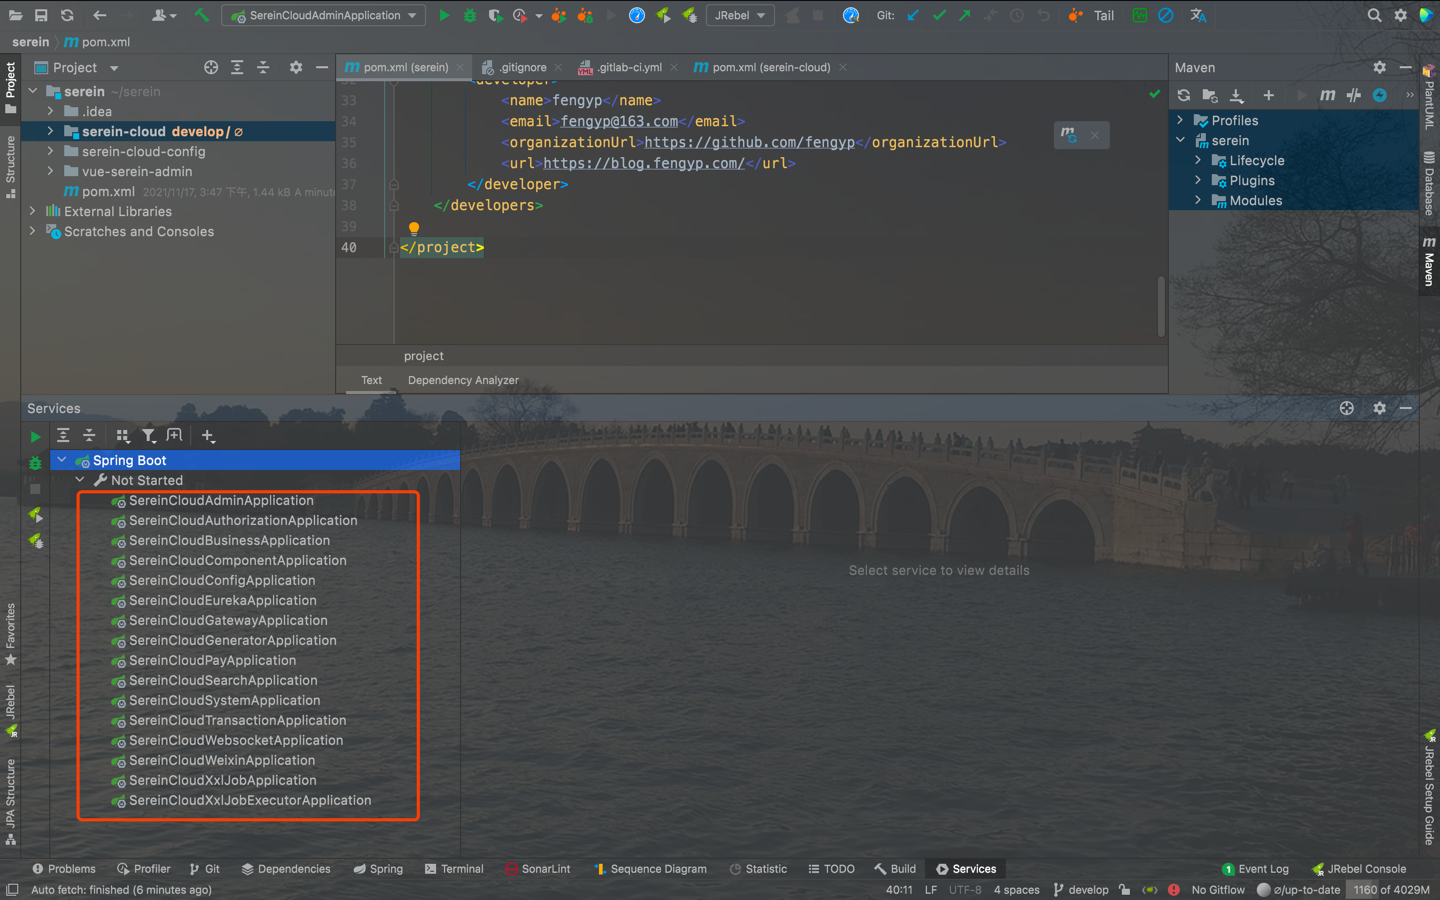
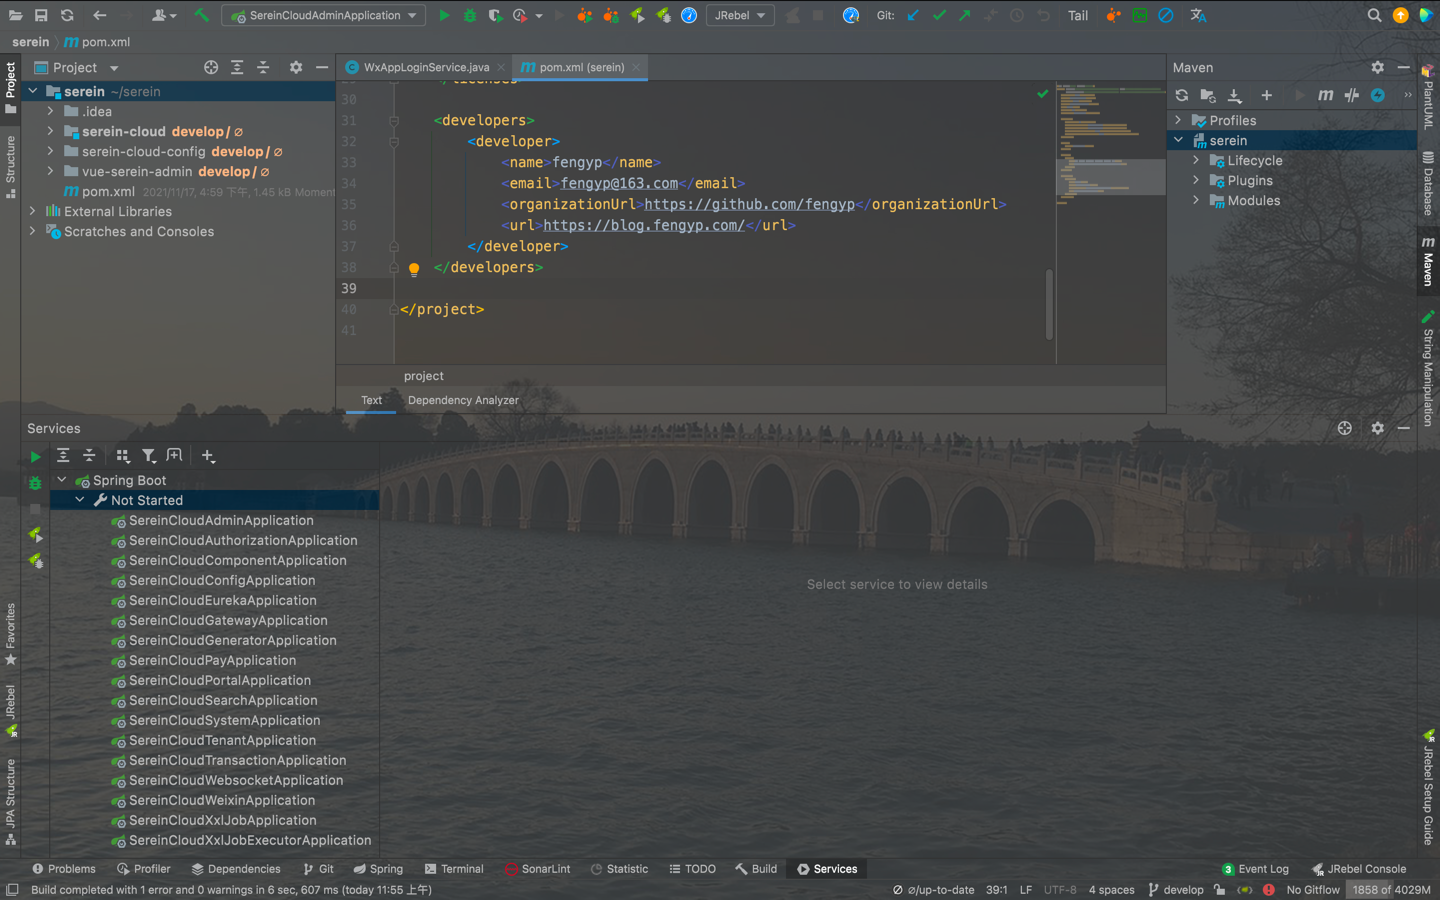
docs: 文档改动

diff --git a/back/advanced.md b/back/advanced.md
@@ -1,12 +1,24 @@
 # 进阶
 
-::: info 简介
-VitePress provides a homepage layout. To use it, specify `home: true` plus some other metadata in your root `index.md`'s [YAML frontmatter](/front/frontmatter). This is an example of how it works:
+::: info 简介 构建分布式系统不应该是复杂的，SpringCloud对常见的分布式系统模式提供了简单易用的编程模型，帮助开发者构建弹性、可靠、协调的应用程序；
+SpringCloud是在SpringBoot的基础上构建的，使开发者可以轻松入门并快速提高工作效率。
 :::
+
+## Tenant 租户模式
+
+- 多租户技术，是一种架构模式，是实现如何在多用户环境下共用相同的系统或程序组件，并且达到各用户间数据的“独立”的技术；
+
+```yaml
+serein:
+  login:
+    tenant: true
+```
 
 ## Swagger接口文档
 
 - SwaggerConfiguration 类配置
+- 本文主要讲解serein cloud是如何通过整合Swagger-UI来实现一份相当完善的在线API文档的。
+- Swagger-UI是HTML, Javascript, CSS的一个集合，可以动态地根据注解生成在线API文档。
 
 ```java
 /**
@@ -58,7 +70,6 @@ public class SwaggerConfiguration {
 
 }
 ```
-
 
 ## Oauth2 授权认证
 
@@ -210,4 +221,148 @@ serein:
     bucket-name: serein-cloud #默认的存储桶名称
 ---
 
+```
+
+## Redis 缓存配置
+
+- @EnableCaching注解是spring framework中的注解驱动的缓存管理功能。自spring版本3.1起加入了该注解。如果你使用了这个注解， 那么你就不需要在XML文件中配置cache manager了。
+- 当你在配置类(@Configuration)上使用@EnableCaching注解时，会触发一个post processor，这会扫描每一个spring bean，
+- 查看是否已经存在注解对应的缓存。如果找到了，就会自动创建一个代理拦截方法调用，使用缓存的bean执行处理。
+
+```java
+/**
+ * 设置缓存时间
+ */
+@Configuration
+@EnableCaching
+@ConditionalOnClass(RedisOperations.class)
+@EnableConfigurationProperties(RedisProperties.class)
+@RequiredArgsConstructor
+public class CacheConfig {
+
+    @Bean
+    public CacheManager cacheManager(RedisConnectionFactory redisConnectionFactory) {
+        return new RedisCacheManager(RedisCacheWriter.nonLockingRedisCacheWriter(redisConnectionFactory),
+                this.getRedisCacheConfigurationWithTtl(2 * 60 * 60), // 默认策略，未配置的key会使用这个
+                this.getRedisCacheConfigurationMap() // 指定 key 策略
+        );
+    }
+
+    private Map<String, RedisCacheConfiguration> getRedisCacheConfigurationMap() {
+        Map<String, RedisCacheConfiguration> redisCacheConfigurationMap = new HashMap<>();
+        // DefaultCache和EnterpriseApiCache进行过期时间配置
+        redisCacheConfigurationMap.put("DefaultCache", this.getRedisCacheConfigurationWithTtl(24 * 60 * 60));
+        return redisCacheConfigurationMap;
+    }
+
+    private RedisCacheConfiguration getRedisCacheConfigurationWithTtl(Integer seconds) {
+        Jackson2JsonRedisSerializer<Object> jackson2JsonRedisSerializer = new Jackson2JsonRedisSerializer<>(
+                Object.class);
+        jackson2JsonRedisSerializer.setObjectMapper(JsonUtil.getInstance());
+        RedisCacheConfiguration redisCacheConfiguration = RedisCacheConfiguration.defaultCacheConfig();
+        redisCacheConfiguration = redisCacheConfiguration
+                .serializeValuesWith(
+                        RedisSerializationContext.SerializationPair.fromSerializer(jackson2JsonRedisSerializer))
+                .entryTtl(Duration.ofSeconds(seconds)).computePrefixWith(cacheKeyPrefix());
+        return redisCacheConfiguration;
+    }
+
+    @Bean
+    public CacheKeyPrefix cacheKeyPrefix() {
+        return cacheName -> {
+            String headerTenantId = String.valueOf(TenantContextHolder.getTenantId());
+            if (headerTenantId.equals("null")) {
+                headerTenantId = SereinConstant.SEREIN_TENANT_ID_DEFAULT;
+            }
+            StringBuilder sBuilder = new StringBuilder(100);
+            // 此方法需要自己实现，获取租户编码
+            sBuilder.append("serein").append(":").append(headerTenantId).append(":")
+                    .append(SereinConstant.SEREIN_CACHE_NAMES_PREFIX);
+            sBuilder.append(cacheName).append(":");
+            return sBuilder.toString();
+        };
+    }
+
+    @Bean
+    public KeyGenerator keyGenerator() {
+        return (target, method, params) -> {
+            if (params.length == 0 || params[0] == null) {
+                return "";
+            }
+            String join = Arrays.stream(params).map(param -> {
+                try {
+                    return JsonUtil.writeValueAsString(param);
+                }
+                catch (JsonProcessingException e) {
+                    return param.toString();
+                }
+            }).collect(Collectors.joining("&"));
+            String format = String.format("%s{%s}", target.getClass().getName() + "." + method.getName(), join);
+            return DigestUtils.sha256Hex(format);
+        };
+    }
+
+}
+```
+
+- 缓存使用方法
+
+```java
+/**
+ * <p>
+ * 部门表 服务实现类
+ * </p>
+ */
+@RequiredArgsConstructor
+@Service
+@CacheConfig(cacheNames = "depart", keyGenerator = "keyGenerator")
+@Transactional(rollbackFor = Exception.class)
+public class DepartService implements IDepartService {
+
+	private final DepartRepository departRepository;
+
+	private final DepartMapper departMapper;
+
+	@Override
+	public Handle<Depart, DepartDto, DepartTreeNode, DepartPOI, Long> getHandle() {
+		return new Handle<>(departRepository, departMapper);
+	}
+
+	@Cacheable
+	@Override
+	public DepartDto get(Long aLong) {
+		return IDepartService.super.get(aLong);
+	}
+
+	@CacheEvict(allEntries = true)
+	@Override
+	public DepartDto save(DepartDto dto) {
+		return IDepartService.super.save(dto);
+	}
+
+	@CacheEvict(allEntries = true)
+	@Override
+	public DepartDto update(DepartDto dto) {
+		return IDepartService.super.update(dto);
+	}
+
+	@CacheEvict(allEntries = true)
+	@Override
+	public void updateDeletedTrue(Long aLong) {
+		IDepartService.super.updateDeletedTrue(aLong);
+	}
+
+	@Cacheable
+	@Override
+	public Page<DepartDto> findAll(Specification<Depart> spec, Pageable pageable) {
+		return IDepartService.super.findAll(spec, pageable);
+	}
+
+	@Cacheable
+	@Override
+	public List<DepartTreeNode> trees(Specification<Depart> spec, Sort sort, boolean lazied) {
+		return IDepartService.super.trees(spec, sort, lazied);
+	}
+
+}
 ```

diff --git a/back/basics.md b/back/basics.md
@@ -29,29 +29,32 @@ sidebarDepth: 2
 .Serein Cloud
 ├── serein-cloud-admin -- 监控服务
 ├── serein-cloud-authorization -- 验证服务
+├── serein-cloud-business -- 业务服务
+│   ├── serein-cloud-portal -- 门户服务
+│   └── serein-cloud-portal-api
 ├── serein-cloud-config -- 配置服务
 ├── serein-cloud-eureka -- 注册服务
 ├── serein-cloud-gateway -- 网关服务
 ├── serein-cloud-platform -- 平台服务
-│   ├── serein-cloud-business -- 业务服务
-│   ├── serein-cloud-business-api
-│   ├── serein-cloud-component -- 组件服务
-│   ├── serein-cloud-component-api
-│   ├── serein-cloud-pay -- 支付服务
-│   ├── serein-cloud-pay-api
-│   ├── serein-cloud-system -- 系统服务
-│   ├── serein-cloud-system-api
-│   ├── serein-cloud-websocket -- websocket服务
-│   ├── serein-cloud-websocket-api
-│   ├── serein-cloud-weixin -- 微信服务
-│   └── serein-cloud-weixin-api
+│   ├── serein-cloud-component -- 组件服务
+│   ├── serein-cloud-component-api
+│   ├── serein-cloud-pay -- 支付服务
+│   ├── serein-cloud-pay-api
+│   ├── serein-cloud-system -- 系统服务
+│   ├── serein-cloud-system-api
+│   ├── serein-cloud-tenant -- 租户服务
+│   ├── serein-cloud-tenant-api
+│   ├── serein-cloud-websocket -- websocket服务
+│   ├── serein-cloud-websocket-api
+│   ├── serein-cloud-weixin -- 微信服务
+│   └── serein-cloud-weixin-api
 └── serein-cloud-support -- 支持服务
-│   ├── serein-cloud-generator -- 代码生成
-│   ├── serein-cloud-generator-api
-│   ├── serein-cloud-search -- 搜索引擎
-│   ├── serein-cloud-search-api
-│   ├── serein-cloud-transaction -- 分布式事务
-│   ├── serein-cloud-xxl-job -- 定时任务
+│   ├── serein-cloud-generator -- 代码生成
+│   ├── serein-cloud-generator-api
+│   ├── serein-cloud-search -- 搜索引擎
+│   ├── serein-cloud-search-api
+│   ├── serein-cloud-transaction -- 分布式事务
+│   ├── serein-cloud-xxl-job -- 定时任务
 └── └── serein-cloud-xxl-job-executor
 ```
 

diff --git a/back/started.md b/back/started.md
@@ -102,13 +102,14 @@ git clone https://gitlab.vipklm.com/serein/vue-serein-admin.git
   - `SereinCloudGatewayApplication` 网关服务
   - `SereinCloudAuthorizationApplication` 验证服务
   - `SereinCloudSystemApplication` 系统服务
+  - `SereinCloudTenantApplication` 租户服务
 - 其它服务按需要启动
 - 所有服务如下：
 
 ```txt
 SereinCloudAdminApplication 监控服务
 SereinCloudAuthorizationApplication 验证服务
-SereinCloudBusinessApplication 业务服务
+SereinCloudPortalApplication 门户服务
 SereinCloudComponentApplication 组件服务
 SereinCloudConfigApplication 配置中心服务
 SereinCloudEurekaApplication 注册中心服务
@@ -117,9 +118,11 @@ SereinCloudGeneratorApplication 代码生成服务
 SereinCloudPayApplication 支付服务
 SereinCloudSearchApplication 搜索服务
 SereinCloudSystemApplication 系统服务
+SereinCloudTenantApplication 租户服务
 SereinCloudTransactionApplication 分布式事物服务
 SereinCloudWebsocketApplication websocket服务
 SereinCloudWeixinApplication 微信服务
 SereinCloudXxlJobApplication 定时任务服务
 SereinCloudXxlJobExecutorApplication定时任务客户端服务
+··· 业务服务
 ```

diff --git a/back/common-problem.md b/back/common-problem.md
@@ -13,3 +13,7 @@
 3. 从[百度](https://www.百度.com)搜索问题
 4. 在下面列表找不到问题可以到 issue 提问 [issues](https://gitlab.vipklm.com/serein/serein-cloud/issues)
 5. 如果不是问题类型的，需要讨论的，请到 [discussions](https://gitlab.vipklm.com/serein/serein-cloud/discussions) 讨论
+
+## 为什么在本地启动不了？
+
+为什么在本地启动不了!

diff --git a/back/common-doubts.md b/back/common-doubts.md
@@ -5,3 +5,5 @@
 :::
 
 ## 为什么在本地启动不了？
+
+为什么在本地启动不了!
